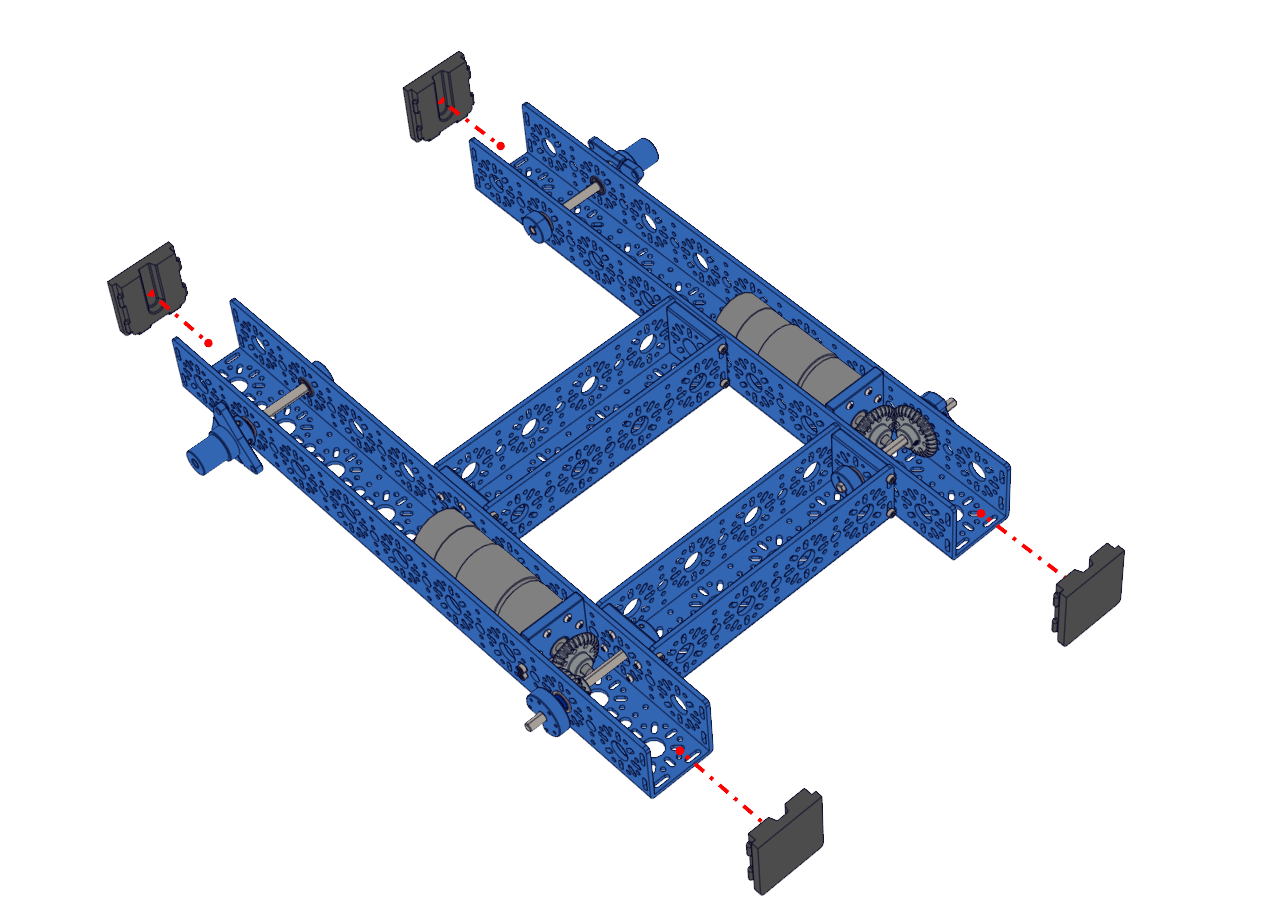
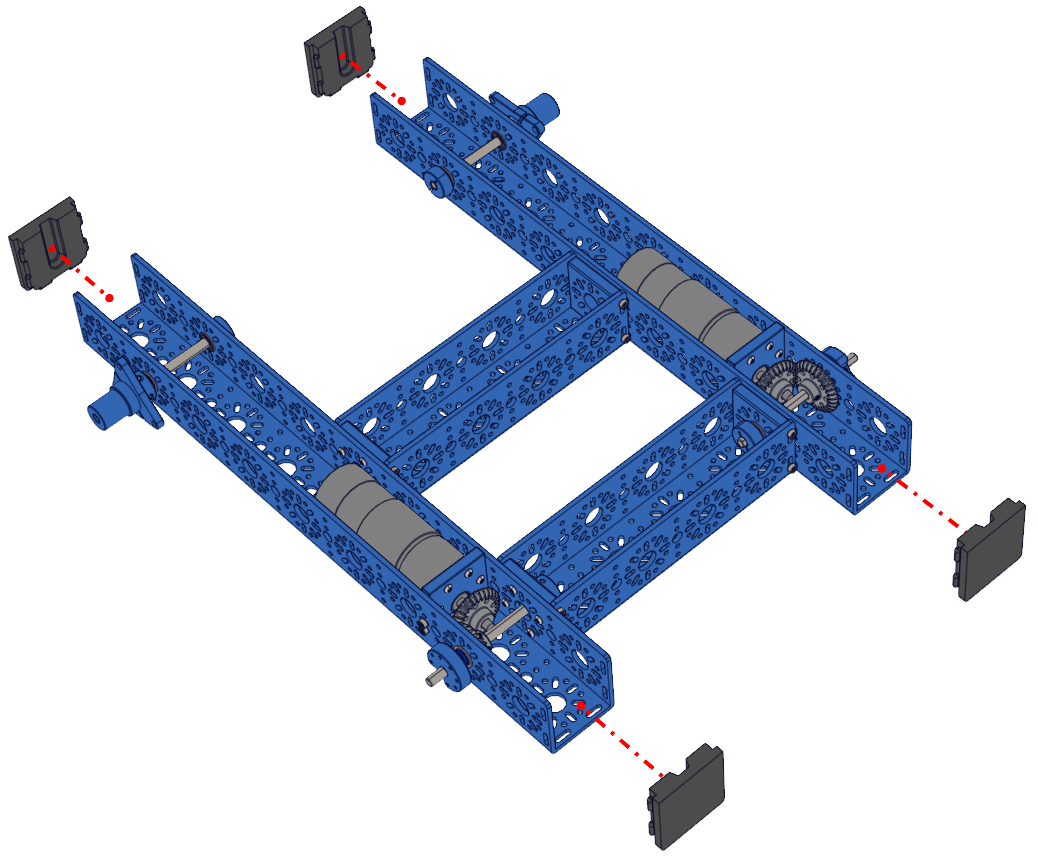
Finished up to step 8 the bumpers

Changed region(s): [[0.0, 0.0, 0.9865, 0.8778], [0.5857, 0.8475, 0.7091, 0.9988]]

diff --git a/source/docs/Basic-Bot/Chassis/step5.rst b/source/docs/Basic-Bot/Chassis/step5.rst
@@ -1,2 +1,49 @@
 Step 5
 ======
+
+.. list-table:: Parts Required for Step 5
+        :widths: 50 25 25 150
+        :header-rows: 1
+        :align: center
+
+        * - Name
+          - Part #
+          - Qty
+          - Image
+        * - NeveRest Classic 40
+          - am-4609b
+          - 2
+          - .. image:: images/bom/neverest-classic.png
+              :align: center
+              :width: 30%
+        * - Motor Mount Plate
+          - 76140
+          - 2
+          - .. image:: images/bom/motor-mount-plate.png
+              :align: center
+              :width: 15%
+        * - 30 Tooth Bevel Gear
+          - 76219
+          - 4
+          - .. image:: images/bom/30-tooth-bevel.png
+              :align: center
+              :width: 15%
+        * - M3 x 10mm SHCS
+          - 76201
+          - 12
+          - .. image:: images/bom/m3-10-shcs.png
+              :align: center
+              :width: 10%
+
+Instructions
+------------
+
+- Pre-Load the 4mm setscrews into the 30 Tooth Bevel Gear. **Be careful not to tighten the setscrews all the way**
+- Slide the NeveRest Classic into the Motor Mount plate.
+- Using M3 x 10mm SHCS, screw the NeveRest Classic into the Motor Mount Plate.
+- Slide the 30 Tooth Bevel gear onto the NeveRest Classic Motor shaft. The set screws should face away from the motor, as shown below. **Do Not fully tighten the setscrews**.
+- Repeat these steps for the other NeveRest Classic Motor.
+
+.. figure:: images/basicBotChassis_View22.png
+    :align: center
+    :width: 70%

diff --git a/source/docs/Basic-Bot/Chassis/step7.rst b/source/docs/Basic-Bot/Chassis/step7.rst
@@ -1,0 +1,38 @@
+Step 7
+======
+
+.. list-table:: Parts Required for Step 7
+        :widths: 50 25 25 150
+        :header-rows: 1
+        :align: center
+
+        * - Name
+          - Part #
+          - Qty
+          - Image
+        * - Completed Assembly from Part 6
+          - 
+          - 1
+          - 
+        * - M3 x 10mm SHCS
+          - 76201
+          - 12
+          - .. image:: images/bom/m3-10-shcs.png
+              :align: center
+              :width: 10%
+
+
+Instructions
+------------
+
+- Using the M3 x 10mm SHCS screw in the 6 screws points as shown in the pictures below.
+- Once fully tightend, mesh the two bevel gears and tighten the setscrews. **You may need to do one rotate the shaft and repeat to get all 4.**
+- Repeat the process for the other side.  
+
+|pic1| |pic2|
+
+.. |pic1| image:: images/basicBotChassis_View10.png
+    :width: 60%
+
+.. |pic2| image:: images/basicBotChassis_View11.png
+    :width: 39%

diff --git a/source/docs/Basic-Bot/Chassis/step8.rst b/source/docs/Basic-Bot/Chassis/step8.rst
@@ -1,0 +1,33 @@
+Step 8 
+======
+
+.. list-table:: Parts Required for Step 8
+        :widths: 50 25 25 150
+        :header-rows: 1
+        :align: center
+
+        * - Name
+          - Part #
+          - Qty
+          - Image
+        * - Completed Assembly from Part 7
+          - 
+          - 1
+          - 
+        * - U-Channel Bumper
+          - 76505
+          - 4
+          - .. image:: images/bom/bumper.png
+              :align: center
+              :width: 20%
+
+Instructions
+------------
+
+- Press the U-Channel Bumper into the end slots of the 432mm U-Channel
+
+.. hint:: Sometimes, bending the bumper can help get it in.
+
+.. figure:: images/basicBotChassis_View12.png
+    :align: center
+    :width: 70%

diff --git a/source/docs/Basic-Bot/Chassis/step6.rst b/source/docs/Basic-Bot/Chassis/step6.rst
@@ -1,2 +1,33 @@
 Step 6
 ======
+
+.. list-table:: Parts Required for Step 6
+        :widths: 50 25 25 150
+        :header-rows: 1
+        :align: center
+
+        * - Name
+          - Part #
+          - Qty
+          - Image
+        * - Completed Assembly from Part 4
+          - 
+          - 1
+          - 
+        * - Completed Assembly from Part 5
+          - 
+          - 2
+          - 
+
+Instructions
+------------
+
+- Slide the Motor Assemblies down into the chassis as shown in the pictures below. 
+
+|pic1| |pic2|
+
+.. |pic1| image:: images/basicBotChassis_View8.png
+    :width: 60%
+
+.. |pic2| image:: images/basicBotChassis_View9.png
+    :width: 39%

diff --git a/source/docs/Basic-Bot/Chassis/step4.rst b/source/docs/Basic-Bot/Chassis/step4.rst
@@ -1,7 +1,7 @@
 Step 4
 ======
 
-.. list-table:: Parts Required for Step 3
+.. list-table:: Parts Required for Step 4
         :widths: 50 25 25 150
         :header-rows: 1
         :align: center
@@ -40,7 +40,7 @@ Step 4
               :width: 40% 
         * - 30 Tooth Bevel Gear
           - 76219
-          - 4
+          - 2
           - .. image:: images/bom/30-tooth-bevel.png
               :align: center
               :width: 15%

diff --git a/source/docs/Basic-Bot/Chassis/index.rst b/source/docs/Basic-Bot/Chassis/index.rst
@@ -247,3 +247,5 @@ Tools Required
   step4
   step5
   step6
+  step7
+  step8
